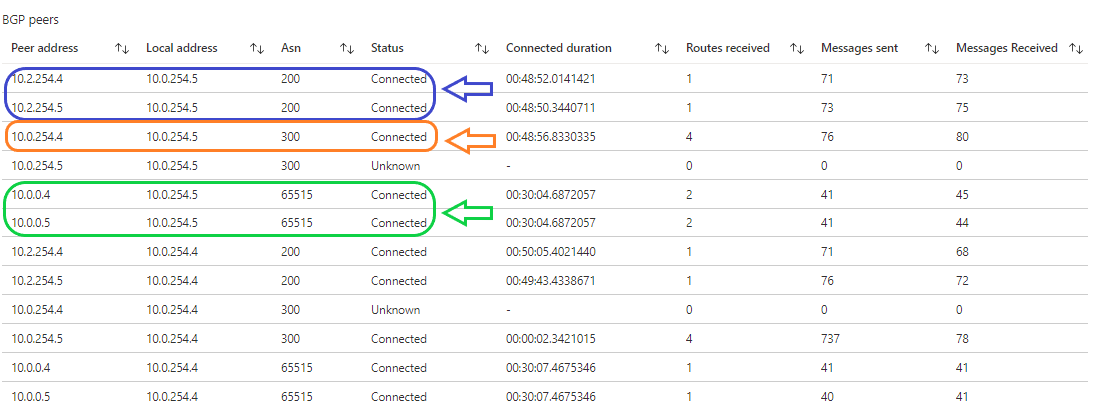
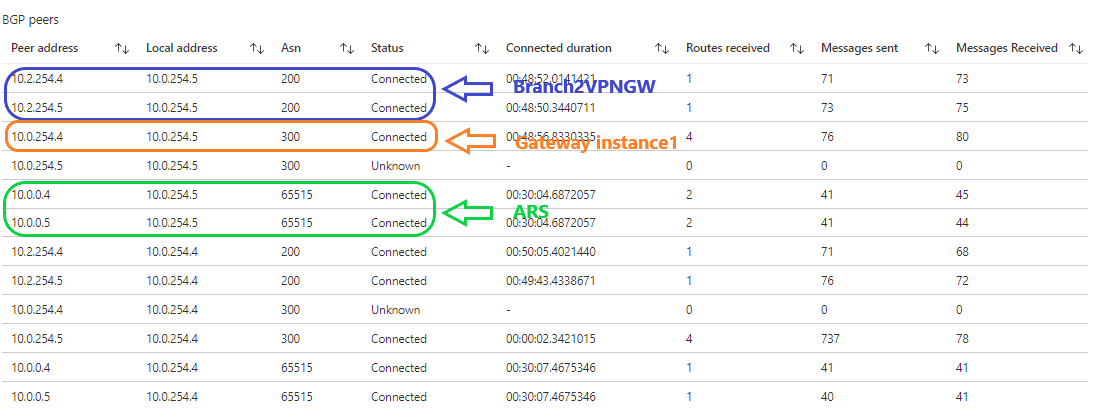
updates

Changed region(s): [[0.4662, 0.3204, 0.6216, 0.3786], [0.4662, 0.1748, 0.6216, 0.233], [0.4662, 0.4951, 0.4973, 0.5534]]

diff --git a/README.md b/README.md
@@ -1,13 +1,17 @@
 # **Azure Route Server with Cisco CSR1000v NVA**
 
 # Introduction
-This lab demonstrates one of the use cases of [Azure Route Server](https://docs.microsoft.com/en-us/azure/route-server/overview): dynamic route exchange via BGP between a Network Virtual Appliance and the Azure routing plane. 
+This lab demonstrates one of the use cases of [Azure Route Server](https://docs.microsoft.com/en-us/azure/route-server/overview): BGP route exchange with a Network Virtual Appliance and a VPN Gateway.
 
-:exclamation: Azure Route Server (ARS) is in Public Preview and visible in the portal on this [Azure Portal link](https://aka.ms/routeserver).
+:exclamation: Azure Route Server (ARS) is in Public Preview and is only visible in the portal on this [Azure Portal link](https://aka.ms/routeserver).
 
-The lab consists of a Hub VNET containing ARS, a Cisco CSR1000v NVA, a VPN Gateway and a VM. Two Branch VNETs, each containing a VPN Gateway and a VM, have VPN connections to the CSR and the Gateway in the Hub respectively. The VPN connections are BGP-enabled. A Spoke VNET containing a VM is peered to the Hub. 
+The lab consists of:
+- A Hub VNET containing ARS, a Cisco CSR1000v NVA, a VPN Gateway and a VM
+- Branch VNETs, each containing a VPN Gateway and a VM
+- BGP-enabled VPN connections from the Branches to the CSR and the Hub Gateway respectively
+- A Spoke VNET containing a VM, peered to the Hub. 
 
-The lab is built in Bicep and it leverages the CSR1000v free-trial Marketplace offer. 
+The lab is built in Bicep and leverages the CSR1000v free-trial Marketplace offer. 
 
 ![image](images/ars-lab.png)
 
@@ -16,27 +20,27 @@ Log in to Azure Cloud Shell at https://shell.azure.com/ and select Bash.
 
 Ensure Azure CLI and extensions are up to date:
   
-`az upgrade --yes`
+      az upgrade --yes
   
 If necessary select your target subscription:
   
-`az account set --subscription <Name or ID of subscription>`
+      az account set --subscription <Name or ID of subscription>
   
 Clone the  GitHub repository:
   
-`git clone https://github.com/mddazure/azure-route-server-lab`
+      git clone https://github.com/mddazure/azure-route-server-lab
   
 Change directory:
   
-`cd ./azure-route-server-lab`
+      cd ./azure-route-server-lab
 
 Accept the terms for the CSR1000v Marketplace offer:
 
-`az vm image terms accept --urn cisco:cisco-csr-1000v:16_12_5-byol:latest`
+      az vm image terms accept --urn cisco:cisco-csr-1000v:16_12_5-byol:latest
 
 Deploy the Bicep template:
 
-`az deployment sub create --location westeurope --template-file templates/main.bicep`
+      az deployment sub create --location westeurope --template-file templates/main.bicep
 
 Verify that all components in the diagram above have been deployed to the resourcegroup `ars-lab` and are healthy. 
 
@@ -53,6 +57,8 @@ tunnel pre-shared key: `Routeserver2021`
 # Configure
 The BGP peering between ARS and the VPN Gateway in the Hub is controlled by the Branch-to-branch switch; in the portal this is under RouteServer - Configuration. The lab deploys ARS with this switch enabled and no further configuration is needed.
 
+![image](images/rs-b2b.png)
+
 The CSR1000v NVA is up but it must still be configured:
 
 - Obtain both public IP addresses of Branch1VPNGW in Cloud Shell:
@@ -62,7 +68,8 @@ The CSR1000v NVA is up but it must still be configured:
 
 - In below configuration, replace *Branch1VPNGWPubIpV41* and *Branch1VPNGWPubIpV42* with the first and second public IP addresses of Branch1VPNGW.
 
-- Log in to the CSR1000v, preferably via the Serial console in the portal, as this does not rely on network connectivity in the VNET. Serial console is under Support + troubleshooting the Virual Machine csr blade.
+- Log in to the CSR1000v, preferably via the Serial console in the portal as this does not rely on network connectivity in the VNET. 
+  - Serial console is under Support + troubleshooting in the Virtual Machine blade.
 
 - Enter Enable mode by typing `en` at the prompt, then enter Configuration mode by typing `conf t`.
 
@@ -149,6 +156,38 @@ ip route 10.0.0.0 255.255.255.0 10.0.253.1
 
 # Observe
 
+**From HubVPNGW**
+
+In the portal, navigate to Virtual network gateways -> Branch1VPNGW. Under Monitoring, click BGP Peers.
+
+***BGP Peers***
+
+The VPN Gateway in the Hub has a BGP peering with ARS. This is controlled by the ARS Branch-to-branch switch turned on during lab deployment.
+
+:point_right: Both instances of the Gateway have EBgp peers with Branch2VPNGW at Asn 200 over the VPN, blue in the table below, and with ARS at Asn 65515, green. 
+
+Note the IBgp peer between instances at Asn 300, orange, which is the Asn of this Gateway.
+
+![image](images/hubvpngw-bgppeers.png)
+
+ ***Learned Routes***
+
+HubVPNGW learns the routes for Branch2, blue in the route table below, from Branch2VPNGW. The route exchange with the other Gateway instance is in the orange boxes.
+
+The route for Branch1, `10.1.0.0/16` in the green box, is learned from ARS. Branch1 is behind CRS at `10.0.253.4`, but the interface addresses of ARS, `10.0.0.4` and `10.0.0.5`, are listed as the next hops for `10.1.0.0/16`. 
+
+![image](images/hubvpngw-learnedroutes.png)
+The table shows entries for one Gateway instance, entries for the other instance are similar.
+
+:point_right: ARS is not a router and is not in the data path. HubVPNGW sees ARS's interfaces as the next hops to Branch1 so will send any traffic  for Branch1 out of its LAN interface, onto the GatewaySubnet. ARS has programmed a route for Branch1 on the GatewaySubnet (on the host running the Gateway instance really), pointing to CSR at `10.0.253.4`. This sends traffic leaving HubVPNGW for Branch1 directly to CSR. 
+
+![image](images/packetflow.png)
+
+This is similar to how ARS programs Spoke1VM with the route for Branch1 pointing to CRS, described below, which can be observed through Effective Routes on the VM NIC. Unfortunately, Effective Routes for Gateway instances cannot be inspected.
+
+:point_right: Both instances of the active-active Gateway have a full set of routes. They also learn routes from each other, marked Origin IBgp. These routes are less prefered than those learned via EBgp and are only used when an instance looses the direct path to a destination, for example when a tunnel connection drops.
+
+
 **From CSR**
 
 Log in to CSR via Serial Console.
@@ -229,34 +268,6 @@ S        169.254.169.254 [254/0] via 10.0.253.1
 ```
 Ping Branch1VM, Branch2VM and Spoke1VM from CSR by typing `ping 10.1.0.4`, `ping 10.2.0.4`, `ping 10.3.0.4`. Verify that the pings succeed.
 
-**From HubVPNGW**
-
-In the portal navigate to Virtual network gateways -> Branch1VPNGW. Under Monitoring, click BGP Peers.
-
-***BGP Peers***
-
-The VPN Gateway in the Hub has a BGP peering with ARS. This is controlled by the ARS Branch-to-branch switch, turned on during lab deployment.
-
-:point_right: Both instances of the Gateway have EBgp peers with Branch2VPNGW at Asn 200 over the VPN, blue in the table below, and with ARS at Asn 65515, green. Note the IBgp peer between instances at Asn 300, orange, which is the Asn of this Gateway.
-
-![image](images/hubvpngw-bgppeers.png)
-
- ***Learned Routes***
-
-HubVPNGW learns the route for Branch1, `10.1.0.0/16` green in the route table below, from ARS. Branch1 is behind CRS at `10.0.253.4`, but the interface addresses of ARS, `10.0.0.4` and `10.0.0.5`, are listed as the next hops for `10.1.0.0/16`. 
-
-The table shows entries for one Gateway instance, entries for the other instance are similar. 
-
-![image](images/hubvpngw-learnedroutes.png)
-
-:point_right: ARS is not a router and is not in the data path. HubVPNGW sees ARS's interfaces as the next hops to Branch1 so will send any traffic  for Branch1 out of its LAN interface, onto the GatewaySubnet. ARS has programmed a route for Branch1 on the GatewaySubnet (on the host running the Gateway instance really), pointing to CSR at `10.0.253.4`. This sends traffic leaving HubVPNGW for Branch1 directly to CSR. 
-
-![image](images/packetflow.png)
-
-This is similar to how ARS programs Spoke1VM with the route for Branch1 pointing to CRS, described below, which can be observed through Effective Routes on the VM NIC. Unfortunately, Effective Routes for Gateway instances cannot be inspected.
-
-
-The route table also contains the routes for Branch2, blue, learned from Branch2VPNGW. The route exchange with the other Gateway instance is in the orange boxes.
 
 **From Spoke1VM**
 
@@ -282,11 +293,14 @@ In the portal navigate to Virtual network gateways -> Branch1VPNGW. Under Monito
 
 Both instances of the VPN GW have a BGP peering and exchange routes with CSR over the VPN tunnels.
 
+![image](images/branch1vpngw-bgppeers.png)
+
 The peer with address `1.1.1.1` is the CSR. This is the address of the loopback interface on the CSR used to source the BGP sessions. A static route set in the Local Network Gateway tells Branch1VPNGW that this address is on the other side of the tunnel.
 
  ***Learned Routes***
+Branch1VPNGW learns the routes for Hub and Branch2 prefixes from CSR, and CSR's AS of 64000 is in the path of these routes.
 
- Both instances of the active-active Gateway have a full set of routes. They also learn routes from each other, marked Origin IBgp. These routes are less prefered than those learned via EBgp and are only used when an instance looses the direct path to a destination, for example when a tunnel connection drops.
+![image](images/branch1vpngw-learnedroutes.png)
 
 :point_right: In the entry for `10.2.0.0/16` note the AS Path is 64000 (CSR), 65515 (ASR), 300 (HubVPNGW), 200 (Spoke1VPNGW). CSR learns the route for `10.2.0.0/16` from ASR via BGP; static routing on the CSR is not required. 
 
@@ -301,7 +315,10 @@ If a packet for `10.3.0.4` (Spoke1VM) arrives at an instance, the instance will 
 
 Navigate to Network interfaces -> Branch1VM-nic. Click Effective routes. 
 
+
+
 The VM has routes for all prefixes outside of the VNET, pointing to both instances of the Gateway.
+![image](images/branch1vm-effectiveroutes.png)
 
 :point_right: The Azure platform will do Equal Cost Multipath (ECMP) routing, meaning that traffic will be shared over both Gateway instances. Traffic is load shared by flow, with a flow identified by its "5-tuple" of source and destination IP addresses, source and destination ports and protocol (TCP, UDP, ICMP).
 
